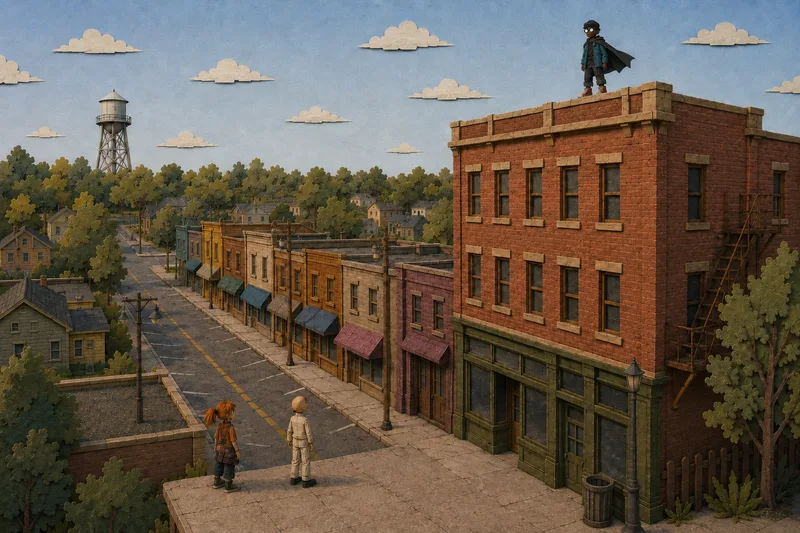
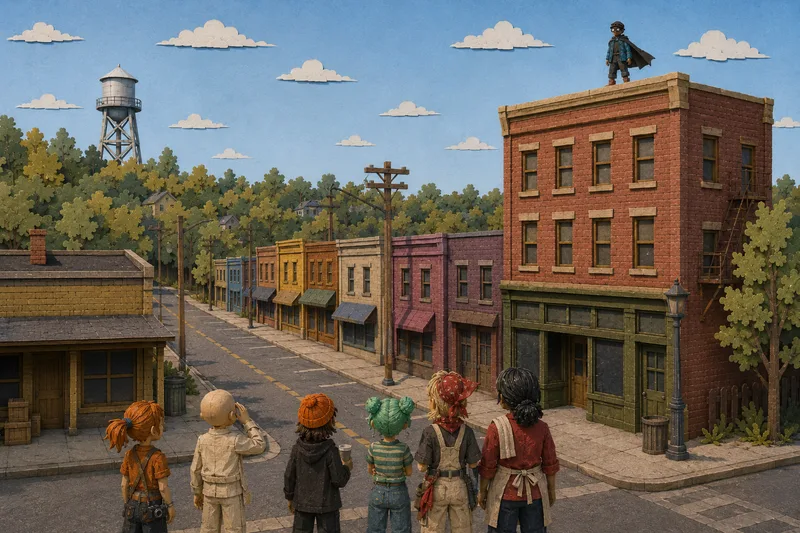
s08 and s09 land, and Milo's mother gets a block because I gave her the wrong face
N1-S08 IS FIXED AND THE 4.6C MITIGATION WORKED FIRST TIME. Six watchers, all seen from
behind with no faces, and NO SECOND NIGHTJAR. Three previous attempts put a full-size copy of
him on the sidewalk; this one attached no character sheets at all, only the location, and the
duplicate did not appear. That is the rule written this morning being used on purpose instead
of rediscovered, and it is now evidence rather than a theory.

All six read: orange ponytail with a camera, bald boy in ivory calling up, orange beanie with
a paper cup, mint-green hair in two buns, red bandana standing very straight, and a woman in
an oatmeal apron. The building is three countable storeys, the light is bright mid-morning
under a pale blue sky, and it matches s09 on the facing spread.

N1-S09'S HAND IS NOW A HAND. Small, in scale, and over the parapet of the lower roof next
door rather than the tall building, which is what the corrected prose says. Rosa laughing with
a hand flat on her chest, Milo laughing, and Pip apart and level and not looking up all
survived the regeneration.

MILO'S MOTHER WAS THE WRONG RACE AND THAT WAS MY FAULT, NOT THE GENERATOR'S. I invented "a
Black woman in her forties, warm brown skin, hair wrapped in a patterned headscarf" in the
prompt. Milo's own block is natural light-to-medium skin with dark reddish-brown hair, so she
contradicted her son on the page.

She now has a roster block of her own, built from art the author supplied, with colouring
[…]

diff --git a/patch-notes/PROMPT-canonical-milos-mother.md b/patch-notes/PROMPT-canonical-milos-mother.md
@@ -1,0 +1,83 @@
+# Canonical reference: Milo's mother
+
+Generated 2026-08-08 from `roster.json`. **ONE IMAGE, ONE FILE.** 3:4 at 900x1200 or larger, on
+`rgb(238, 221, 197)` — the same ground the rest of the cast sits on.
+
+Folder: `patch-notes\refs-milos-mother\` — two attachments, and both matter.
+
+| File | What it is the authority for |
+|---|---|
+| `milos-mother-SUPPLIED-SOURCE.png` | her face: skin, freckles, eyes, brows, nose, mouth, hair |
+| `char-milo-canonical.png` | her son — she has to look related to him |
+
+## Why she exists
+
+`n1-s04` was delivered with her as a Black woman in a headscarf. That came out of my prompt, not
+out of the story, and it contradicts her son: Milo is *natural light-to-medium skin of ordinary
+healthy tone* with *dark reddish-brown hair*. She now has a block of her own built to make him
+make sense — pale skin, dark brows, and black hair that reads reddish in warm light.
+
+## The two things this prompt has to fight
+
+**She has to be aged up and generators do not want to.** The supplied art reads as early
+twenties; she is the mother of an eighteen-year-old. Same face, carried into the early forties,
+with lines at the eyes and mouth and a little silver at one temple. Everything that makes her
+her — the freckles, the heavy lids, the black hair, the pink flush — stays.
+
+**The expression on the source is not the expression on the sheet.** The source is weary and
+unimpressed with her head turned away. A canonical sheet is neutral and doing nothing, the same
+rule that kept Ida's wave out of hers. Her warmth belongs in the plate, where she is mid-anecdote
+about a wedding in 1996 while her son sits on the bathroom floor.
+
+## The hat is hers and the plate does not use it
+
+The flowered hat, the red roll-neck and the black blazer are `{{WARDROBE:MOTHER_A}}` — what the
+town would know her by, and what the sheet wears. `n1-s04` happens at three in the morning in a
+bathroom, so that plate uses `{{WARDROBE:MOTHER_B}}`: a dressing gown, bare feet and **no hat**.
+
+---
+
+## [ ] char-milos-mother-canonical.png · aspect 3:4
+
+```
+STYLE: Paper-Theater Millbrook (the project's locked style, reproduced below verbatim)
+
+Paper-Theater Millbrook
+
+A dimensional-looking but clearly handmade world assembled from flat painted paper shapes.
+
+Character treatment
+- Each character is built from layered, articulated paper forms.
+- No realistic 3D modeling. Depth comes from overlaps, cut edges, and soft physical shadows.
+- Faces use replaceable expression pieces, almost like a sophisticated paper puppet.
+- Limbs remain long enough for readable full-body gestures.
+- Signature objects are slightly exaggerated in size: Owen's phone, Felix's sandwich, Lena's satchel, Milo's glasses.
+
+The result feels like a stop-motion series made from an eccentric community theater's scenery, but polished enough to support a full book.
+
+Town treatment
+- Fountain, bench, trees, storefronts, and pathways occupy separate depth planes.
+- Paper seams and imperfect cut edges remain visible.
+- Repeating objects may differ slightly. One bench slat is too short. One fountain tile is the wrong shade. One distant window has moved between scenes.
+- This physical imperfection naturally supports Millbrook's patched reality.
+
+Palette
+Warm off-white paper base with subdued town colors and stronger character-specific accents. Printed pencil textures or dry brush may appear on the paper, but no glossy 3D surfaces.
+
+ATTACH AND OBEY BOTH IMAGES. `milos-mother-SUPPLIED-SOURCE.png` is the authority for her FACE — the skin, the freckles, the eyes, the brows, the nose, the mouth and the hair. `char-milo-canonical.png` is her son, and she must plainly be his mother: the same fair skin and the same dark hair family.
+
+**SHE IS IN HER EARLY FORTIES AND THE SUPPLIED ART IS NOT.** The attached source reads as a woman in her early twenties and she is the mother of an eighteen year old boy. Carry that exact face into the early forties: keep the freckles, keep the heavy lids, keep the black hair, keep the pink flush on the cheeks — and add fine lines at the outer corners of the eyes and either side of the mouth, a slightly fuller jaw, and a few silver hairs at one temple. **Do not draw her as a young woman.**
+
+A woman in her early forties, fair skin with a warm pink flush across the cheeks and a scatter of small freckles over the nose and upper cheeks. Black hair with a warm reddish cast where the light catches it, short — cut close at the sides and back, with jaw-length wisps loose at the nape and a dark fringe swept across the forehead. Strong dark eyebrows. Heavy-lidded dark eyes with the lids low and level. A small straight nose, a small mouth, a rounded jaw. Ordinary height and ordinary build.
+
+**HER EXPRESSION IS NEUTRAL AND SHE IS DOING NOTHING.** The attached source has her weary and unimpressed with her head turned away, and that is a performance rather than a face. Here she is calm and level, looking straight at the camera, mouth closed and relaxed, with the warmth available but not switched on. A canonical sheet that acts stops being a reference.
+
+Worn: a brown wide-brimmed felt hat trimmed round the crown with orange flowers and green foliage, worn on her head; a dark red ribbed roll-neck sweater; and a black single-breasted blazer worn open over it. Plain dark trousers and flat dark shoes. Nothing else and no other props.
+
+Standing squarely facing the camera in a neutral pose, arms relaxed at her sides, neutral expression, doing nothing. No scene, no story action, no props beyond what the description above specifies.
+Plain flat sandy background, a single even colour of rgb(238, 221, 197) across the whole frame, edge to edge, with no gradient, no vignette, no texture, no shadow cast onto it and no horizon line. No location and no setting of any kind.
+Full figure, head to feet, centred, camera at chest height, straight on, no perspective distortion, nothing cropped.
+Flat even neutral light from the front with no strong direction and no dramatic shadow, so every feature reads clearly.
+No text, lettering, numerals, signage copy, captions, watermarks or logos anywhere in the image. No extra, missing or malformed limbs, hands or fingers. No additional faces beyond those specified. No duplicated or mirrored figures. No lens flare, bloom or chromatic aberration. No legible screen or display content and no phone interface elements. No photographic realism, no glossy 3D render finish, no anime house style. No borders, frames or panel gutters. No graphic or decorative drop shadow applied to the image as a whole. No green or unwell cast to any human character's skin unless the prompt asks for it by name. No murky, underlit or crushed interior: whatever the hour, wall colour, furniture and every face in frame stay clearly readable, and large areas of the frame must not fall to featureless black unless the prompt names a single light source and asks for it.
+Aspect ratio: 3:4
+```

diff --git a/patch-notes/specs/PATCH_NOTES_FLIPBOOK_ROSTER.md b/patch-notes/specs/PATCH_NOTES_FLIPBOOK_ROSTER.md
@@ -1393,6 +1393,39 @@ The two are one man and one performance: helpful past the point of usefulness.
 
 **The slippers are a Part One detail and belong to the plate, not the sheet.**
 
+### {{CHAR:MILOS_MOTHER}} — Milo's mother
+
+**Immutable:** A woman in her early forties, **fair skin with a warm pink flush across the
+cheeks**, and a scatter of small freckles over the nose and upper cheeks. **Black hair with a
+warm reddish cast where the light catches it** — short, cut close at the sides and back with
+jaw-length wisps loose at the nape and a dark fringe swept across the forehead. Strong dark
+eyebrows. **Heavy-lidded dark eyes with the lids low and level**, a small straight nose, a small
+mouth, and a rounded jaw. Fine lines at the outer corners of the eyes and either side of the
+mouth, and a few silver hairs at one temple. Ordinary height and build.
+
+**Canonical reference:** `char-milos-mother-canonical.png` · Seed: pending · Approved: no
+
+**She exists to match Milo and the first attempt did not.** `n1-s04` was delivered with her as a
+Black woman in a headscarf, which was invented in the prompt and contradicts her son: Milo's block
+is *natural light-to-medium skin of ordinary healthy tone* with *dark reddish-brown hair*. Her
+colouring is now built to make him make sense — pale skin, dark brows, and black hair that reads
+reddish in warm light, which is where his comes from.
+
+**Aged up from supplied art, deliberately.** The author's reference reads as a woman in her early
+twenties. She is the mother of an eighteen-year-old, so the sheet is the same face carried into
+the early forties: the freckles, the heavy lids, the black hair and the pink flush all stay, and
+lines at the eyes and mouth, a slightly fuller jaw and a little silver at the temple are added.
+Do not draw her young. Archived at `reference-source/SECONDARY/Milos_Mother/SUPPLIED_SOURCE.png`.
+
+**The expression on the supplied art is not the expression on the sheet.** The source has her
+weary and unimpressed, looking away. A canonical sheet is neutral and doing nothing — the same
+rule that kept Ida's wave out of hers. Her warmth belongs to the plate, where she is mid-anecdote
+about a wedding in 1996 while her son is on the bathroom floor.
+
+**She has exactly one appearance and it is a good one.** She is not worried and she is not
+fussing. Milo never gets sick and has got sick, and what she does about it is tell him a story he
+has probably heard before. That is the whole character and it should read in one glance.
+
 ### {{CHAR:THE_BEAR}} — the bear
 
 **Immutable:** A full-grown American black bear, glossy black coat with a brown muzzle and a
@@ -1472,6 +1505,8 @@ of the token split and it is worth not eroding.
 | `{{WARDROBE:FELIX_B}}` | **The Nightjar.** A **faded teal work jacket**, worn open over a dark charcoal shirt, with the sleeves turned back at the cuff; over it a **charcoal cape with an attached hood**, worn down over the shoulders and tied at the throat, plainly hand-cut; a **charcoal flat cap** pulled low; loose dark charcoal trousers with deep turn-ups; **worn red-orange high-top sneakers**. No backpack, no orange harness straps and **no red glasses**. Handmade throughout: the hems are uneven, the cape is a cut blanket, and nothing fits quite properly | The Nightjar, all four parts |
 | `{{WARDROBE:ROSA_A}}` | Dark jeans, a plain short-sleeved shirt in faded red, and a canvas apron in oatmeal with a scorch mark low on one side, worn over the top and tied at the back. Sleeves pushed to the elbow. A cloth over one shoulder | all |
 | `{{WARDROBE:JUNIE_A}}` | A quilted olive work jacket over a plain grey sweater, brown corduroy trousers, and flat brown lace-up shoes. A ring of keys on a belt loop | all |
+| `{{WARDROBE:MOTHER_A}}` | **Out of the house.** A brown wide-brimmed felt hat trimmed round the crown with orange flowers and green foliage, a dark red ribbed roll-neck sweater, and a black single-breasted blazer worn open. The flowered hat is her signature and the thing the town would know her by | all, outdoors |
+| `{{WARDROBE:MOTHER_B}}` | **The middle of the night.** A soft blue-grey dressing gown tied at the waist over a plain cream nightdress, and bare feet. **No hat.** She came straight out of bed | `n1-s04` |
 | `{{WARDROBE:JENNINGS_A}}` | A plain dark green grocer's apron, tied at the waist, over a short-sleeved checked shirt in blue and white and plain dark trousers | all |
 
 The Mayor's new tie and Mr. Henderson's price-tagged shoes are both stated in the prose, which means an attentive reader can check them. They are the two continuity details most worth getting right.

diff --git a/patch-notes/specs/NIGHTJAR_Vol1_Spec.md b/patch-notes/specs/NIGHTJAR_Vol1_Spec.md
@@ -36,7 +36,7 @@ Seven distinct places in ten plates, five of them new to the series. **Rosa's tr
 |---|---|---|
 | Rosa Delgado | s01, s02, s07 | Her whole arc: pleased, astonished, shut. |
 | Mr. Jennings | s03 | Third arc, first appearance in a plate. |
-| Milo's mother | s04 | One use, described inline, no token. |
+| Milo's mother | s04 | `{{CHAR:MILOS_MOTHER}}`, roster 4.8. |
 | Chet | s05, s06 | The first robot the reader meets in this arc. |
 | The nine-year-old | s05 | One use, unnamed, described inline. |
 | The film's Nightjar | s06 | On the television. The source of everything. |
@@ -295,15 +295,17 @@ Prompt:
 ```
 {{STYLE}}
 {{CHAR:MILO}}
+{{CHAR:MILOS_MOTHER}}
+{{WARDROBE:MOTHER_B}}
 EXACTLY TWO FIGURES. A small ordinary domestic bathroom in the middle of the night, described here because it has no reference image: patterned tile halfway up the walls, a plain bath with a shower curtain pushed to one end, a pedestal basin, a bathmat, a night light or a single overhead fixture.
 **MILO IS ILL AND HIS SKIN SHOWS IT. Ask for this by name, because the negative block suppresses it otherwise.** His face, neck and hands carry a distinct sickly GREEN cast over his own skin tone — a pale, faintly grey-green pallor across the forehead, cheeks and around the mouth, unmistakable at a glance and not subtle. In this world green skin means somebody is ill and it is the signal the reader is meant to read. He is wrung out, not comical.
 MILO sits on the floor with his back against the side of the bath, knees up, arms loose over them, head tipped back against the rim. He is grey and wrung out and completely unembarrassed. His beanie and his small round red-lensed glasses are still on, because they always are.
-HIS MOTHER sits on the edge of the bathtub beside him — a Black woman in her forties, warm brown skin, hair wrapped in a patterned headscarf for the night, a dressing gown over nightclothes, bare feet. She is NOT worried and NOT fussing. She is **mid-anecdote**: turned toward him, one hand lifted off her knee in the middle of describing something, mouth open, eyebrows up, plainly enjoying the story. Her other hand rests flat on the rim of the bath beside his shoulder without touching him.
+HIS MOTHER sits on the edge of the bathtub beside him, in her dressing gown with bare feet, straight out of bed. **She is his mother and must read as related to him**: the same fair skin and the same dark hair, which is the point of the attached sheet. She is NOT worried and NOT fussing. She is **mid-anecdote**: turned toward him, one hand lifted off her knee in the middle of describing something, mouth open, eyebrows up, plainly enjoying the story. Her other hand rests flat on the rim of the bath beside his shoulder without touching him.
 The whole subject is that she is telling him about something that happened thirty years ago while he is on the bathroom floor, and that it is working.
 The middle of the night.
 Close two-shot at floor height, camera low and across the small room, both faces large and fully readable, the bath running across the frame between them.
 A LIT ROOM at night. Ordinary warm overhead bathroom light, soft and even, both faces fully readable, nothing sinister and no part of the frame falling to featureless black.
-Hard constraints: exactly two people. Milo keeps the orange beanie and the red-lensed glasses. His mother is amused and unhurried, not anxious. Nobody is being sick in frame and there is no bucket, basin or mess of any kind.
+Hard constraints: exactly two people. Milo keeps the orange beanie and the red-lensed glasses. His mother is FAIR-SKINNED WITH BLACK HAIR and plainly related to him - a previous attempt drew her as a Black woman in a headscarf, which contradicts her son. She wears no hat. She is amused and unhurried, not anxious. Nobody is being sick in frame and there is no bucket, basin or mess of any kind.
 
 {{NEGATIVE}}
 Aspect ratio: 3:2
